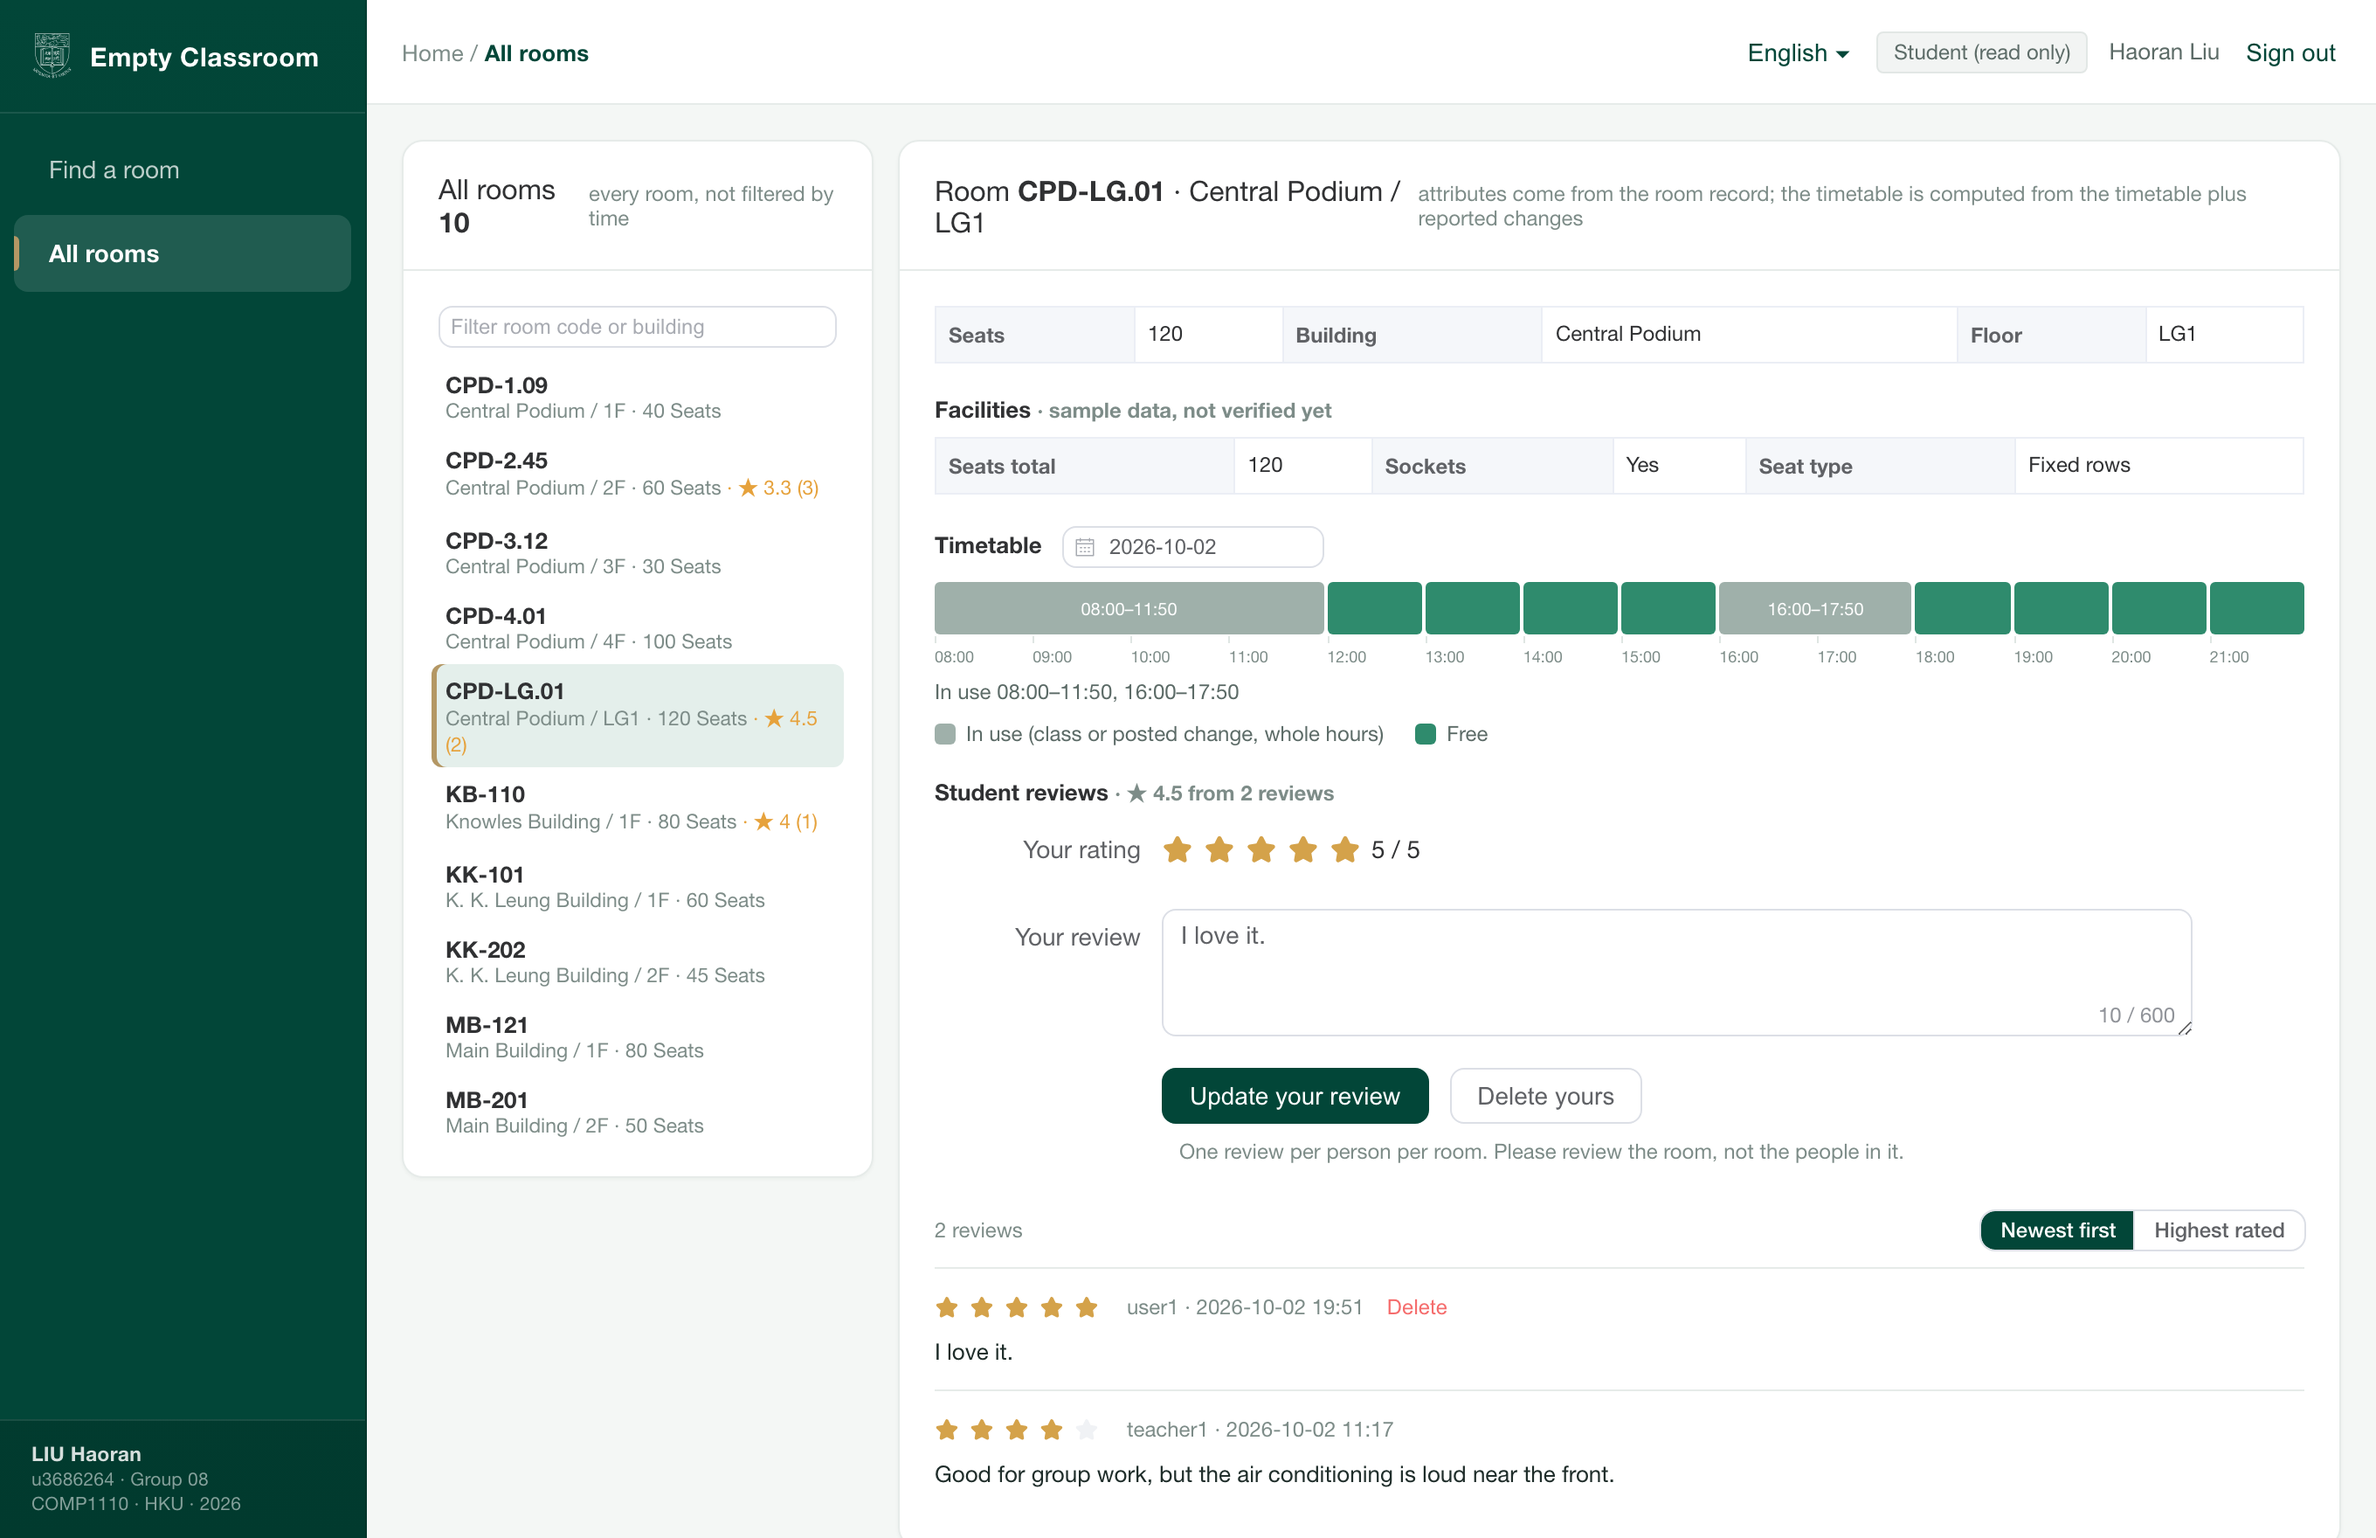
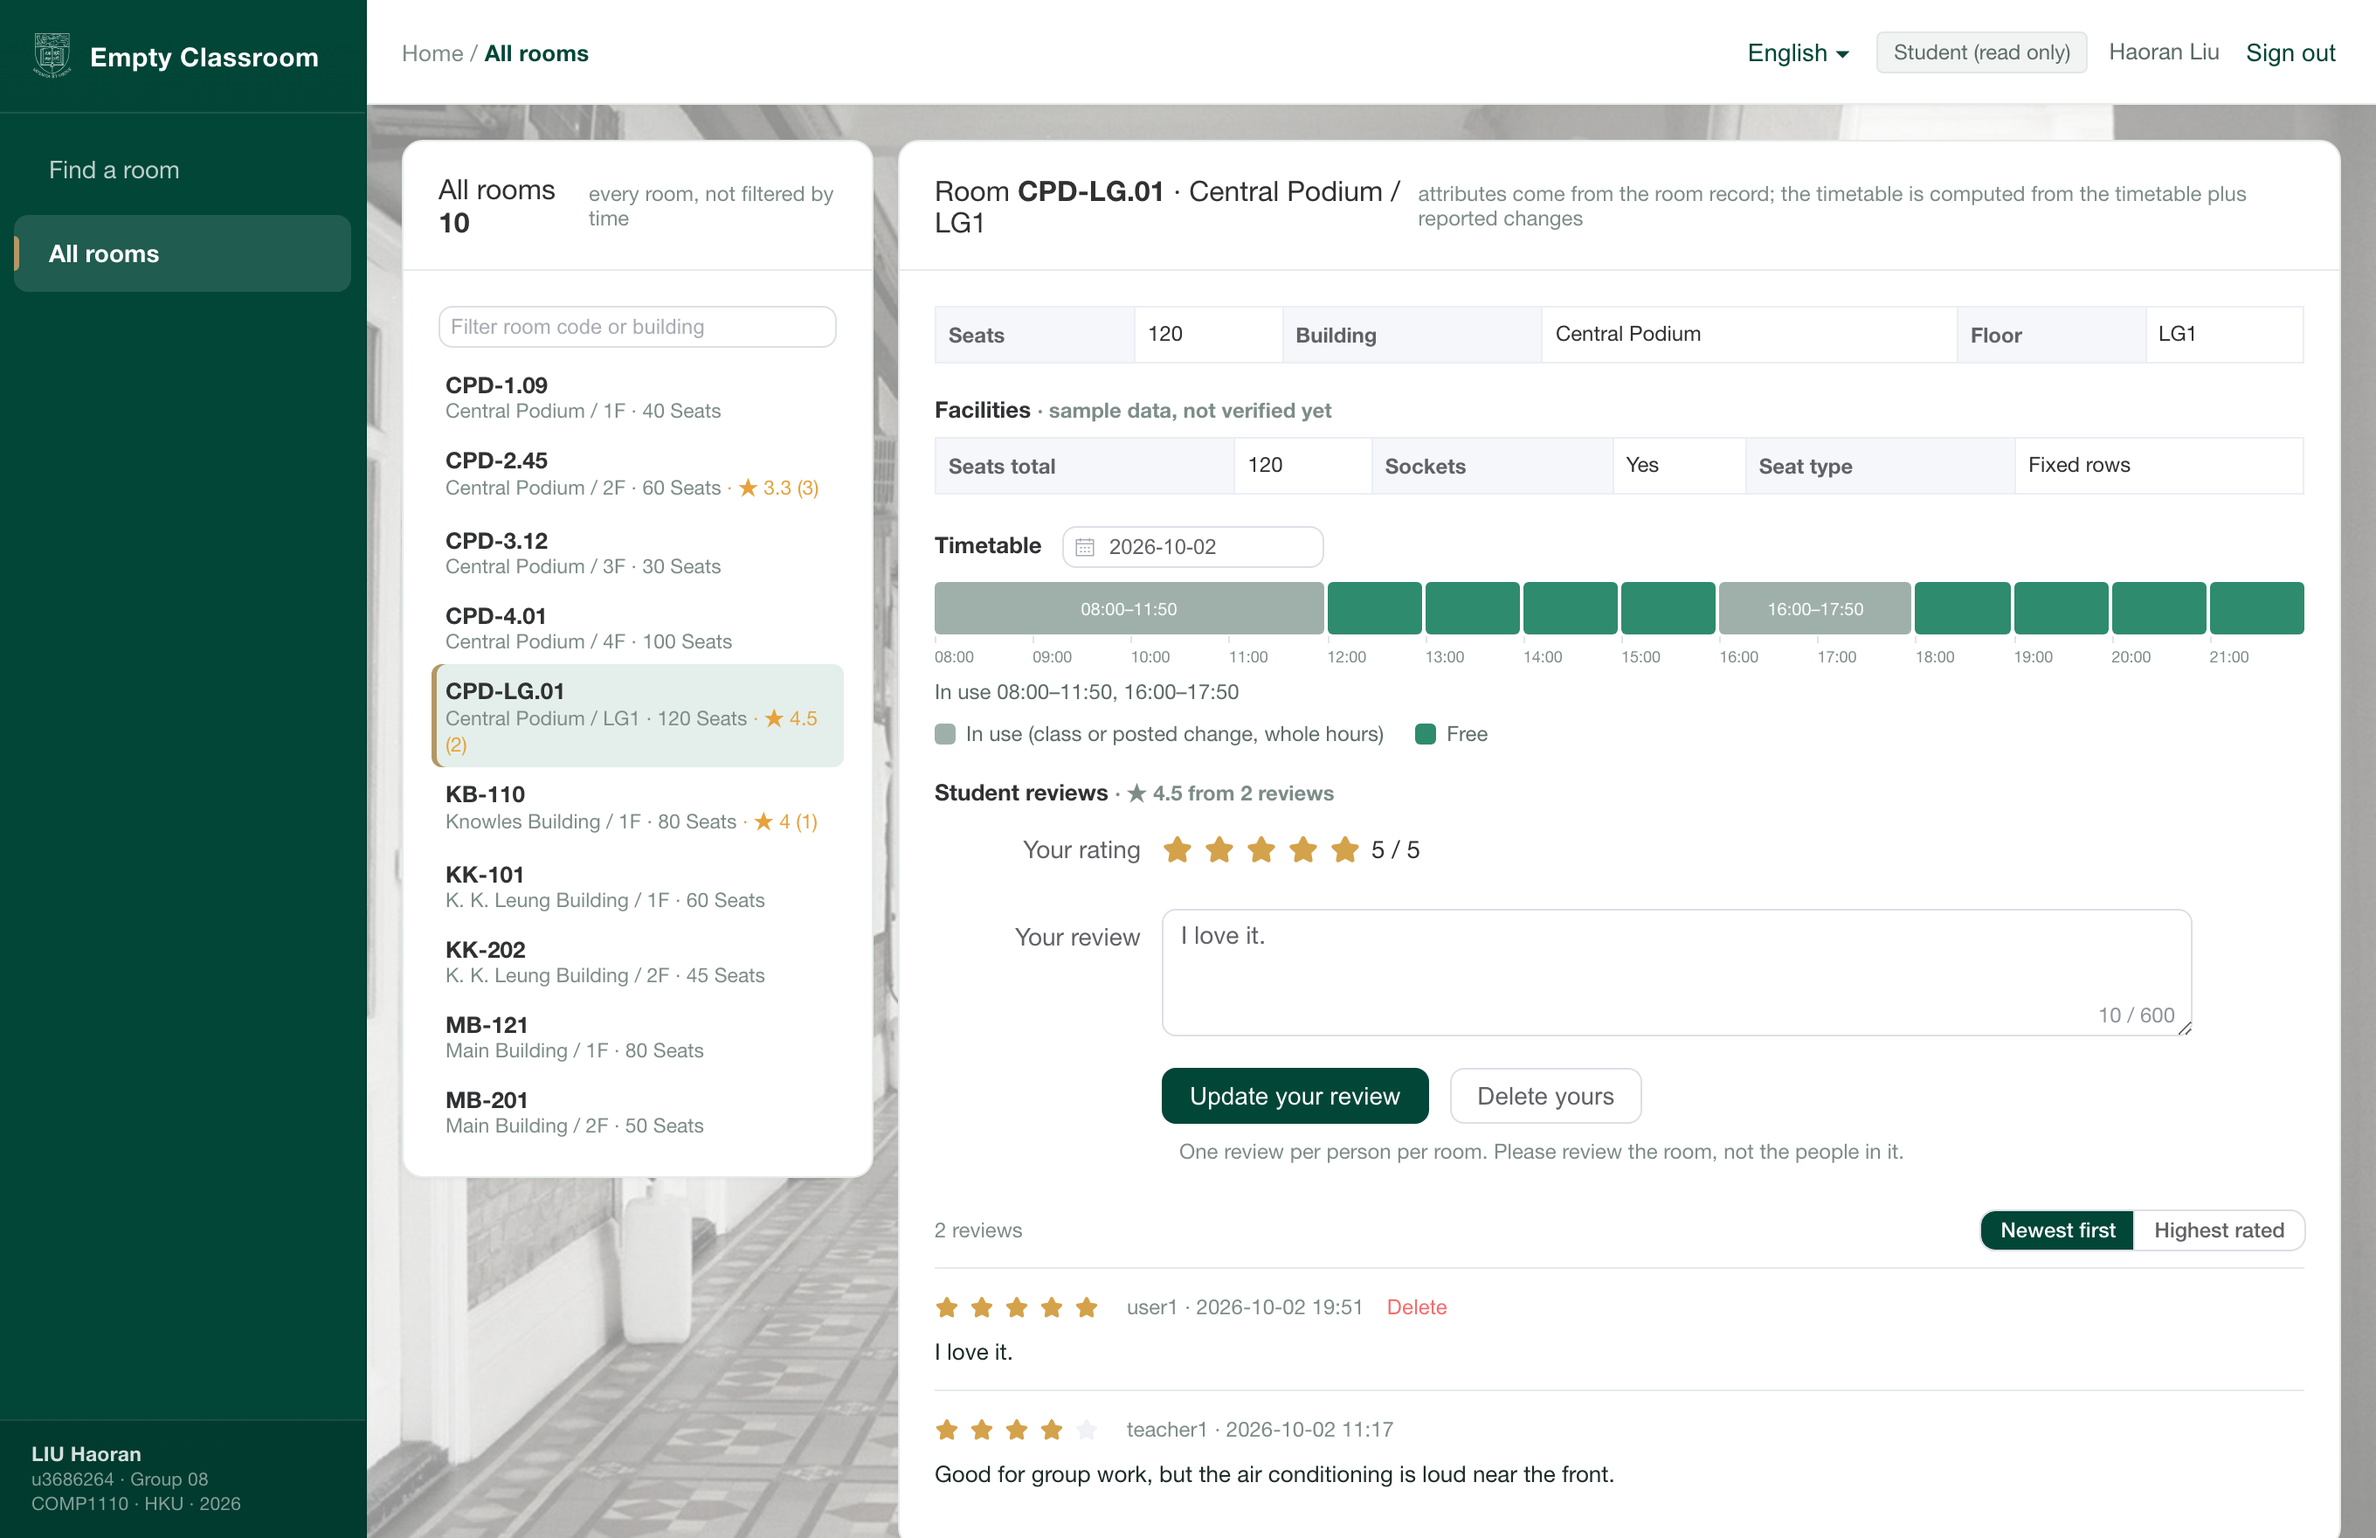
HKU scenery as page backgrounds, with photography credits
- the login page now uses a photograph of the Main Building (clock tower, palms, blue sky)
  as a full-page background. Clarity was the ask, so the scrim is light (20 to 42 per cent
  white over the photo) and the card itself stays opaque, so nothing on the card sits on
  the photograph.
- the signed-in pages use a photograph of the Main Building corridor as a fixed background
  layer: grayscale(.88), 42 per cent opacity, pointer-events none, z-index 0, with the shell
  above it. The content area is transparent so the texture shows between the cards while
  every card and panel remains opaque - no text sits on the photo.
- both photographs come from Wikimedia Commons under their own licences: hku-hero.jpg by
  Yumeto (CC BY-SA 4.0), hku-campus.jpg by Damaskam (CC BY-SA 3.0), each linked to its file
  page in THIRD-PARTY.md, which gains a Photographs section with the licence table. CC BY-SA
  requires attribution and share-alike, so the table has to travel with the images.
- seatType was deliberately left in place: it is a facilities field that an administrator
  maintains, unlike room type which the University does not publish.

Verified: frontend builds; screenshots of the login page and of the signed-in pages taken
and inspected - the photograph reads clearly on the login page and as a light texture
behind the dashboard.

diff --git a/frontend/src/App.vue b/frontend/src/App.vue
@@ -8,6 +8,8 @@
     <router-view v-if="$route.path === '/login'" />
 
     <el-container v-else class="shell">
+      <!-- 内页背景：港大主楼拱廊，去饱和压暗当底纹，内容仍然压在它上面 -->
+      <div class="shell-bg" aria-hidden="true"></div>
       <el-aside width="210px" class="side">
         <div class="logo">
           <img class="crest" :src="crest" alt="The University of Hong Kong" />
@@ -98,7 +100,16 @@ function signOut() {
 html, body, #app { height: 100%; margin: 0; }
 body { font-family: -apple-system, "Helvetica Neue", Helvetica, "PingFang HK", "Microsoft YaHei", Arial, sans-serif; }
 
-.shell { height: 100vh; }
+.shell { height: 100vh; position: relative; }
+
+/* 内页背景层：照片只作为底纹，不参与点击，也不影响任何文字对比度 */
+.shell-bg {
+  position: fixed; inset: 0; z-index: 0; pointer-events: none;
+  background: url('./assets/hku-campus.jpg') center / cover no-repeat;
+  filter: grayscale(.88) contrast(1.06) brightness(1.06);
+  opacity: .42;
+}
+.shell > .el-container, .side { position: relative; z-index: 1; }
 
 /* 侧栏：港大深绿，底部略深一点 */
 .side {
@@ -143,5 +154,6 @@ body { font-family: -apple-system, "Helvetica Neue", Helvetica, "PingFang HK", "
 .crumb b { color: #024638; font-weight: 600; }
 .right { display: flex; align-items: center; gap: 12px; }
 .who { font-size: 13px; color: #5c6b67; }
-.content { background: #f4f7f5; }
+/* 让照片透出来：内容区本身不铺底色，卡片保持不透明 */
+.content { background: transparent; }
 </style>

diff --git a/frontend/src/views/Login.vue b/frontend/src/views/Login.vue
@@ -119,7 +119,10 @@ async function submit() {
 <style scoped>
 .login-wrap {
   min-height: 100vh; display: flex; align-items: center; justify-content: center; padding: 24px;
-  background: radial-gradient(1200px 620px at 12% 0%, #e7f0ed 0%, #f4f7f5 48%, #edf3f1 100%);
+  /* 港大主楼照片当背景。登录页要看得清，所以只压一层很薄的浅色纱，卡片本身是不透明的。 */
+  background:
+    linear-gradient(180deg, rgba(255, 255, 255, .20) 0%, rgba(244, 247, 245, .42) 100%),
+    url('../assets/hku-hero.jpg') center / cover no-repeat fixed;
 }
 .login-card {
   display: flex; width: 760px; max-width: 100%; background: #fff; border-radius: 16px;

diff --git a/README.md b/README.md
@@ -248,7 +248,7 @@ empty-classroom/
 
 ## Licence and credits
 
-This repository is coursework and is not distributed, so it carries no licence file of its own. All third-party components are used under permissive licences — MIT for the front-end stack (Vue 3, Vite, Element Plus, Pinia, axios, vue-i18n), Apache-2.0 for Spring Boot and Flyway, the PostgreSQL licence for the database, BSD-2-Clause for the JDBC driver — and each is credited in [THIRD-PARTY.md](THIRD-PARTY.md). The interface follows the sidebar-dashboard idiom popularised by youlai's [vue3-element-admin](https://github.com/youlaitech/vue3-element-admin) (MIT); **no code from that template is copied into this project**. The header carries the University's shield and wordmark and uses the HKU Green (#024638) from the University's visual identity; those marks are the University's property, used only to identify this coursework prototype.
+This repository is coursework and is not distributed, so it carries no licence file of its own. All third-party components are used under permissive licences — MIT for the front-end stack (Vue 3, Vite, Element Plus, Pinia, axios, vue-i18n), Apache-2.0 for Spring Boot and Flyway, the PostgreSQL licence for the database, BSD-2-Clause for the JDBC driver — and each is credited in [THIRD-PARTY.md](THIRD-PARTY.md). The interface follows the sidebar-dashboard idiom popularised by youlai's [vue3-element-admin](https://github.com/youlaitech/vue3-element-admin) (MIT); **no code from that template is copied into this project**. The header carries the University's shield and wordmark and uses the HKU Green (#024638) from the University's visual identity; those marks are the University's property, used only to identify this coursework prototype. Two photographs of the Main Building are used as page backgrounds, from Wikimedia Commons under CC BY-SA (photographers Yumeto and Damaskam); see [THIRD-PARTY.md](THIRD-PARTY.md).
 
 ## Context
 

diff --git a/README.zh-TW.md b/README.zh-TW.md
@@ -242,7 +242,7 @@ empty-classroom/
 
 ## 授權與致謝
 
-本儲存庫是課程作業、不對外分發，因此沒有獨立的 LICENSE 檔案。用到的第三方元件全部是寬鬆授權——前端棧（Vue 3、Vite、Element Plus、Pinia、axios、vue-i18n）為 MIT，Spring Boot 與 Flyway 為 Apache-2.0，資料庫為 PostgreSQL 授權，JDBC 驅動為 BSD-2-Clause——逐項列在 [THIRD-PARTY.md](THIRD-PARTY.md)。介面沿用了 youlai [vue3-element-admin](https://github.com/youlaitech/vue3-element-admin)（MIT）帶起的側欄式後台版式；**未複製該專案任何程式碼**。 介面頂部使用香港大學的校徽與字標，主色取港大視覺規範裡的 HKU Green（#024638）；這些標記屬於香港大學，此處僅用於標示這份課程作業原型。
+本儲存庫是課程作業、不對外分發，因此沒有獨立的 LICENSE 檔案。用到的第三方元件全部是寬鬆授權——前端棧（Vue 3、Vite、Element Plus、Pinia、axios、vue-i18n）為 MIT，Spring Boot 與 Flyway 為 Apache-2.0，資料庫為 PostgreSQL 授權，JDBC 驅動為 BSD-2-Clause——逐項列在 [THIRD-PARTY.md](THIRD-PARTY.md)。介面沿用了 youlai [vue3-element-admin](https://github.com/youlaitech/vue3-element-admin)（MIT）帶起的側欄式後台版式；**未複製該專案任何程式碼**。 介面頂部使用香港大學的校徽與字標，主色取港大視覺規範裡的 HKU Green（#024638）；這些標記屬於香港大學，此處僅用於標示這份課程作業原型。 頁面背景用了兩張港大主樓的照片，來自 Wikimedia Commons，CC BY-SA 授權（攝影 Yumeto、Damaskam），見 [THIRD-PARTY.md](THIRD-PARTY.md)。
 
 ## 專案背景
 

diff --git a/README.zh-CN.md b/README.zh-CN.md
@@ -240,7 +240,7 @@ empty-classroom/
 
 ## 许可与致谢
 
-本仓库是课程作业、不对外分发，因此没有单独的 LICENSE 文件。用到的第三方组件全部是宽松许可——前端栈（Vue 3、Vite、Element Plus、Pinia、axios、vue-i18n）为 MIT，Spring Boot 与 Flyway 为 Apache-2.0，数据库为 PostgreSQL 许可，JDBC 驱动为 BSD-2-Clause——逐项列在 [THIRD-PARTY.md](THIRD-PARTY.md)。界面沿用了 youlai [vue3-element-admin](https://github.com/youlaitech/vue3-element-admin)（MIT）带火的侧栏式后台版式；**未复制该项目任何代码**。 界面顶部使用香港大学的校徽与字标，主色取港大视觉规范里的 HKU Green（#024638）；这些标记属于香港大学，此处仅用于标示这份课程作业原型。
+本仓库是课程作业、不对外分发，因此没有单独的 LICENSE 文件。用到的第三方组件全部是宽松许可——前端栈（Vue 3、Vite、Element Plus、Pinia、axios、vue-i18n）为 MIT，Spring Boot 与 Flyway 为 Apache-2.0，数据库为 PostgreSQL 许可，JDBC 驱动为 BSD-2-Clause——逐项列在 [THIRD-PARTY.md](THIRD-PARTY.md)。界面沿用了 youlai [vue3-element-admin](https://github.com/youlaitech/vue3-element-admin)（MIT）带火的侧栏式后台版式；**未复制该项目任何代码**。 界面顶部使用香港大学的校徽与字标，主色取港大视觉规范里的 HKU Green（#024638）；这些标记属于香港大学，此处仅用于标示这份课程作业原型。 页面背景用了两张港大主楼的照片，来自 Wikimedia Commons，CC BY-SA 授权（摄影 Yumeto、Damaskam），见 [THIRD-PARTY.md](THIRD-PARTY.md)。
 
 ## 项目背景
 

diff --git a/THIRD-PARTY.md b/THIRD-PARTY.md
@@ -25,3 +25,17 @@ University of Hong Kong. They are reproduced here to identify a coursework proto
 for the University, and no licence to them is granted by this repository. The artwork was
 taken from the University's own website (hku.hk) and is unmodified; for the small sidebar
 mark it is cropped to the shield alone, and the wordmark is dropped.
+
+## Photographs
+
+Two photographs of the University's Main Building are used as page backgrounds. Both come
+from Wikimedia Commons and are unmodified apart from being scaled down.
+
+| File in this repository | Photographer | Licence | Source |
+|---|---|---|---|
+| `hku-hero.jpg` | Yumeto | CC BY-SA 4.0 | [20250906 Main Building.jpg](https://commons.wikimedia.org/wiki/File:20250906_Main_Building.jpg) |
+| `hku-campus.jpg` | Damaskam | CC BY-SA 3.0 | [The inside of The University of Hong Kong Main Building corridor.JPG](https://commons.wikimedia.org/wiki/File:The_inside_of_The_University_of_Hong_Kong_Main_Building_corridor.JPG) |
+
+CC BY-SA requires attribution and share-alike: if these images are reused, keep this table
+with them. The licence is the photographer's, not this project's; the project's own files
+carry no licence (see above).
